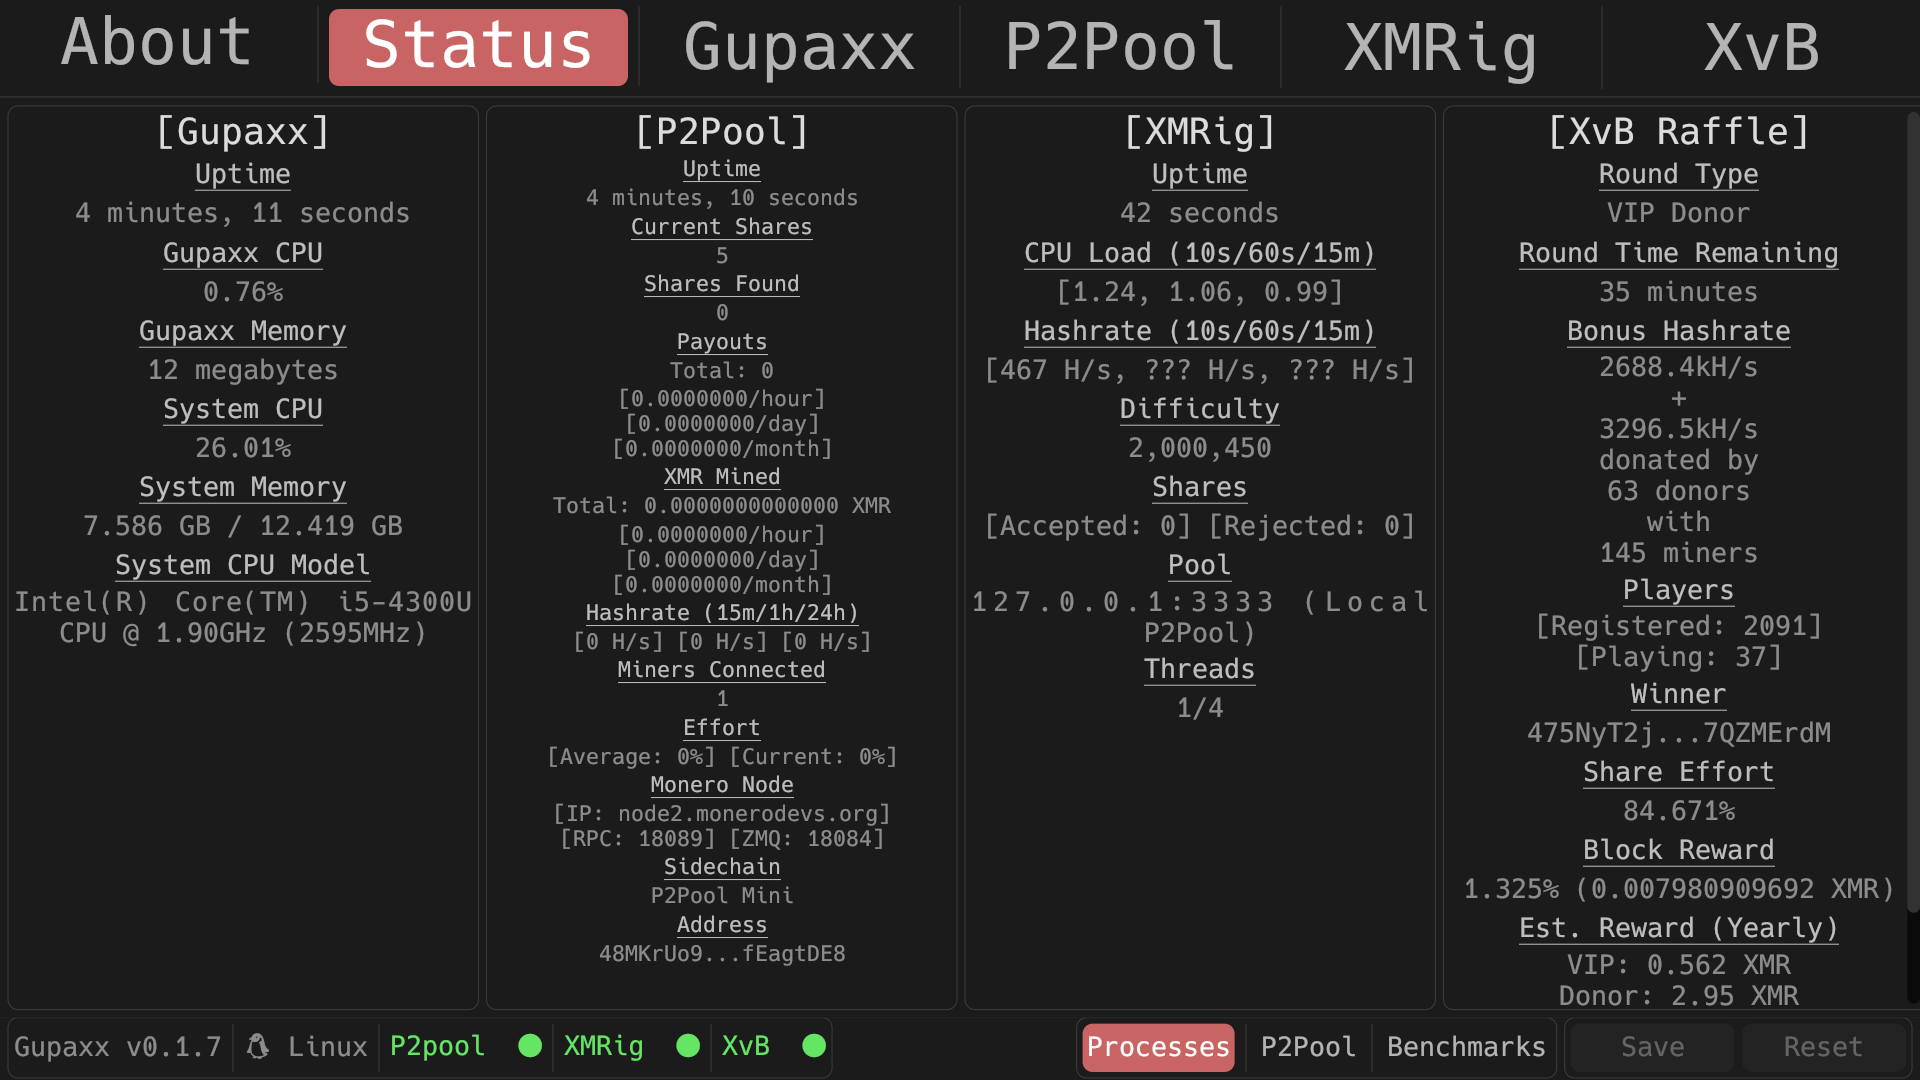
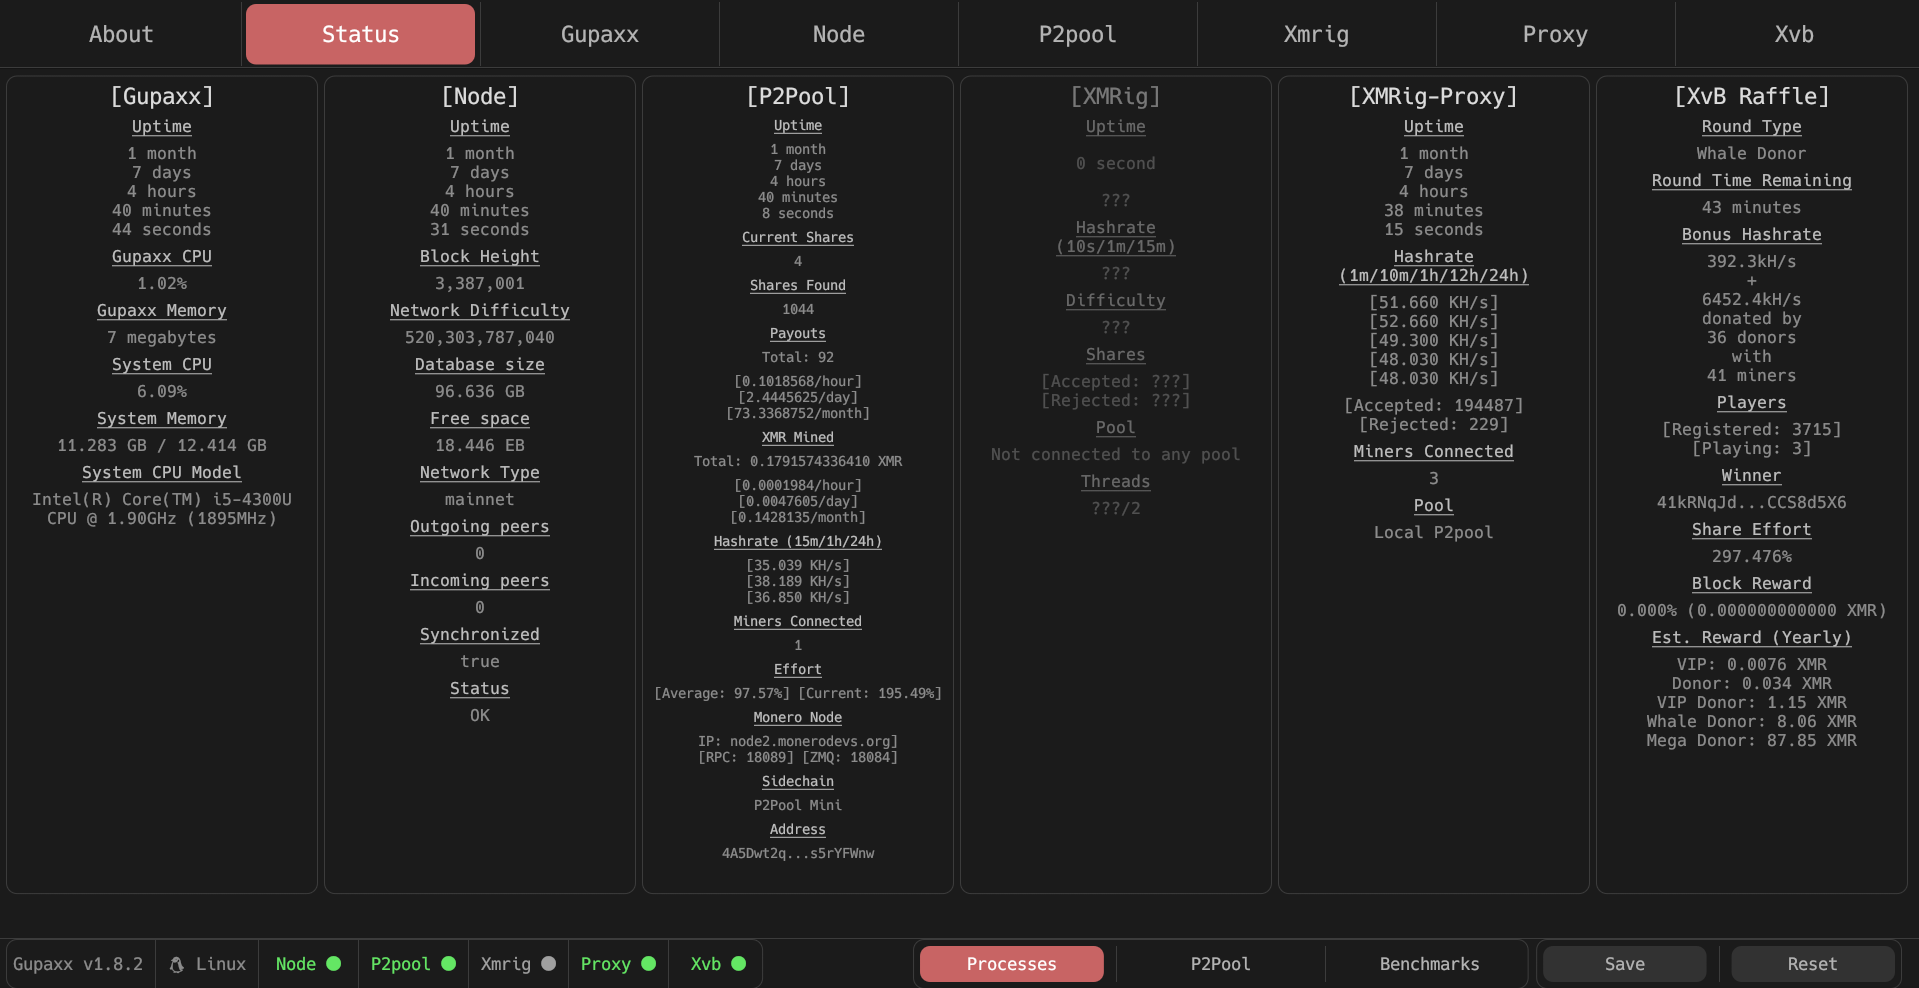
feat: update markdown and images for more recent version

diff --git a/DIFFERENCES.md b/DIFFERENCES.md
@@ -1,5 +1,8 @@
 # Differences with upstream [Gupax](https://github.com/hinto-janai/gupax)
 
+This document reference the biggest changes from Gupax. It will not go into every details that you can see in the different releases changelog.
+
+
 ## Added functionalities
 ### Integration of the XvB Raffle
 A new fancy tab to apply an algorithm of distribution of HR to XMRig (see [NOTES_ALGORITHM](NOTES_ALGORITHMS)) with your token from XvB.  
@@ -8,6 +11,9 @@ This tab also includes a console output that lets you track if everything is wor
 A new column in Status Tab to see public stats from the raffle.
 ### XMRig-Proxy
 You can now point all your external miners and get all the juicy stats in Gupaxx. XvB algorithm is able to control XMRig-Proxy when it is enabled.
+
+### Monerod
+A new tab for a monero node integration. It allows you to start monerod from gupaxx and benefit from an easy setup with p2pool.
 
 ## Removed functionality
 Updates by tor. The version of the crate used was outdated, plagued with security concerns and bloated the binary.  
@@ -26,5 +32,17 @@ Updates from Gupaxx does not retrieve XMRig and P2Pool from upstream anymore, bu
 
 It also allows advanced users to use your their own version of P2Pool and XMRig. The standalone version of Gupaxx will not replace them.
 
+pings of remote p2pool nodes are much faster.
+
+## UI
+
+### Text size
+
+The fonts size has been rethinked to enable you to use Gupaxx on different size of screen. Before, the size of text was tied to the size of the window. You could not show more content by making the window bigger. Now the size of the text remains the same, except if you change it in the Gupaxx tab.
+
+### Hidden tab and columns
+
+Tabs and column from the Status tab can be hidden, to let you see only what you use in Gupaxx.  
+
 ## Security
-With the upgrade of dependencies, cargo audit shows no more warnings for Gupaxx. (instead of 5 vulnerabilities and 4 allowed warnings for Gupax.) 
+Gupaxx is updated frequently and there is a CI action to check for known vulnerabilities (cargo audit). 
